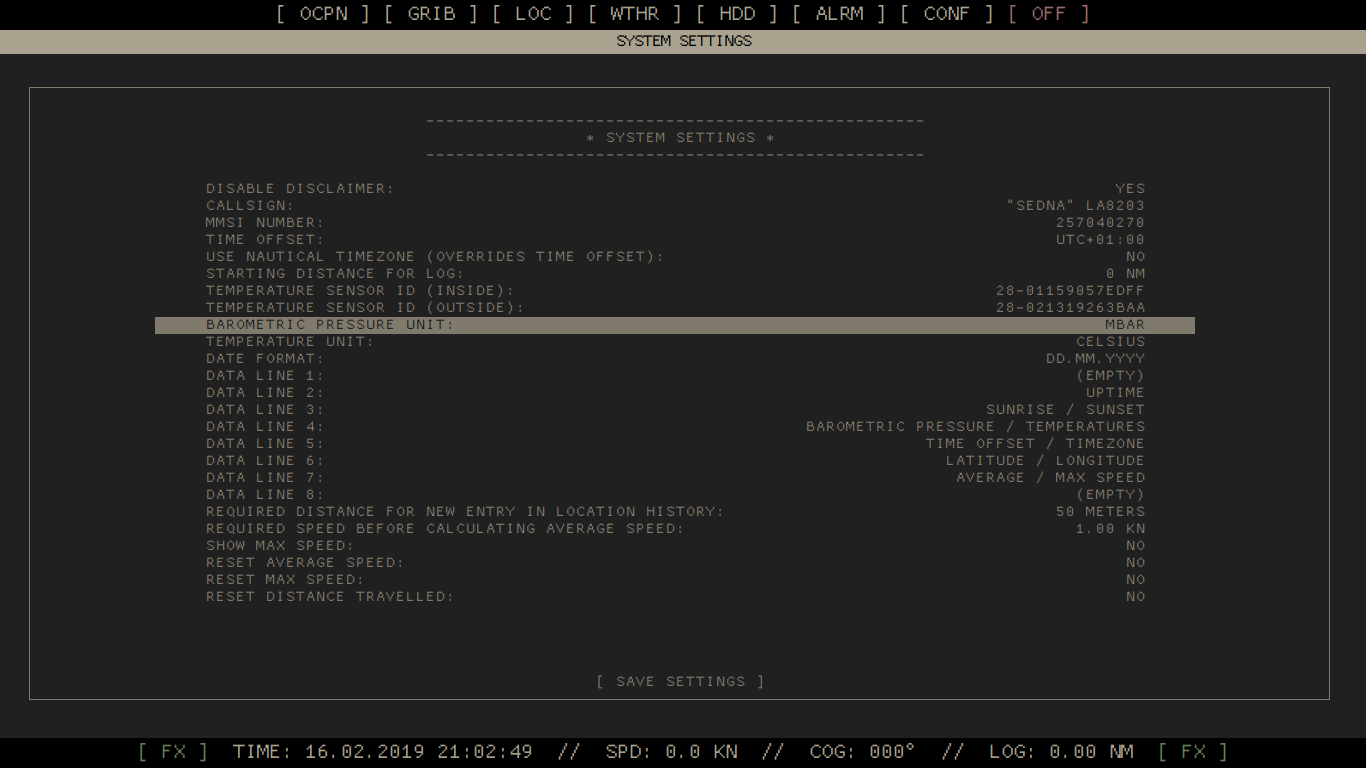
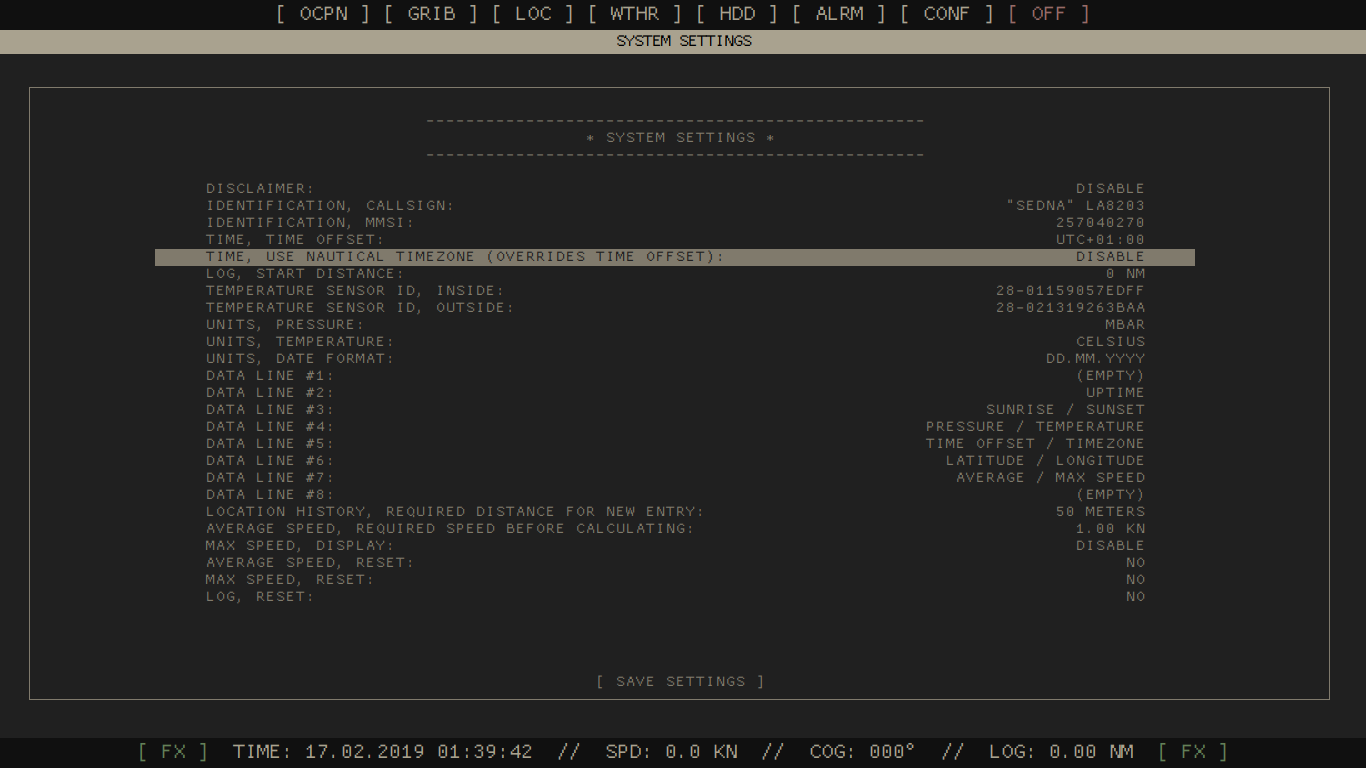
small changes

diff --git a/ocs_files/.OnboardComputerSystem/ocs-config-curses.py b/ocs_files/.OnboardComputerSystem/ocs-config-curses.py
@@ -123,19 +123,19 @@ show_baroupdateinterval=False
 show_baroconnected=False
 
 #Disclaimer
-item_options('Disable disclaimer','DisclaimerActivate')
-option('No','True');
-option('Yes','False');
+item_options('Disclaimer','DisclaimerActivate')
+option('Enable','True');
+option('Disable','False');
 item_count+=1
 
 #Callsign
-item_input_alphanumeric('Callsign','Callsign',callsign_length)
+item_input_alphanumeric('Identification, callsign','Callsign',callsign_length)
 
 #MMSI
-item_input_numbers('MMSI number','MMSI','9')
+item_input_numbers('Identification, MMSI','MMSI','9')
 
 #UTC offset
-item_options('Time offset','UtcOffset')
+item_options('Time, Time offset','UtcOffset')
 option_loop_value = -12
 while option_loop_value <= 12:
   option_loop_value_new=option_loop_value
@@ -150,13 +150,13 @@ while option_loop_value <= 12:
 item_count+=1
 
 #Use nautical timezone
-item_options('Use nautical timezone (overrides time offset)','UseNauticalTimezone')
-option('No','False');
-option('Yes','True');
+item_options('Time, use nautical timezone (overrides time offset)','UseNauticalTimezone')
+option('Disable','False');
+option('Enable','True');
 item_count+=1
 
 #DistanceStart
-item_options('Starting distance for log','DistanceStart')
+item_options('Log, start distance','DistanceStart')
 option_loop_value = 0
 while option_loop_value <= 100000:
   option(str(option_loop_value)+' NM',str(option_loop_value));
@@ -164,25 +164,25 @@ while option_loop_value <= 100000:
 item_count+=1
 
 #Inside temperature sensor ID
-item_input_alphanumeric('Temperature sensor ID (inside)','TempInside','15')
+item_input_alphanumeric('Temperature sensor ID, inside','TempInside','15')
 
 #Inside temperature sensor ID
-item_input_alphanumeric('Temperature sensor ID (outside)','TempOutside','15')
+item_input_alphanumeric('Temperature sensor ID, outside','TempOutside','15')
 
 #Barometric pressure usit: mmHg
-item_options('Pressure unit','BaroUnitMmhg')
+item_options('Units, pressure','BaroUnitMmhg')
 option('Mbar','False');
 option('mmHg','True');
 item_count+=1
 
 #Temperature unit
-item_options('Temperature unit','TempUnitFahrenheit')
+item_options('Units, temperature','TempUnitFahrenheit')
 option('Celsius','False');
 option('Fahrenheit','True');
 item_count+=1
 
 #Date format
-item_options('Date format','DateMonthDayYear')
+item_options('Units, date format','DateMonthDayYear')
 option('DD.MM.YYYY','False');
 option('MM.DD.YYYY','True');
 item_count+=1
@@ -190,7 +190,7 @@ item_count+=1
 #Datalines
 def dataline(number):
   global item_count
-  item_options('Data line '+number,'DataLine'+number)
+  item_options('Data line #'+number,'DataLine'+number)
   option('(Empty)','0');
   option('Uptime','1');
   option('Sunrise / Sunset','2');
@@ -211,7 +211,7 @@ dataline('7')
 dataline('8')
 
 #Required distance for new entry in location history
-item_options('Required distance for new entry in location history','LogEntryMinDistance')
+item_options('Location history, required distance for new entry','LogEntryMinDistance')
 option_loop_value = 10
 while option_loop_value <= 10000:
   option(str(option_loop_value)+' meters',str(option_loop_value));
@@ -219,7 +219,7 @@ while option_loop_value <= 10000:
 item_count+=1
 
 #SpdAvgReqMin
-item_options('Required speed before calculating average speed','SpdAvgReqMin')
+item_options('Average speed, required speed before calculating','SpdAvgReqMin')
 option_loop_value = float(0.25)
 while option_loop_value <= 5:
   option_loop_value_new='{0:.02f}'.format(option_loop_value)
@@ -228,32 +228,32 @@ while option_loop_value <= 5:
 item_count+=1
 
 #Show max speed
-item_options('Show max speed','ShowMaxSpd')
-option('No','False');
-option('Yes','True');
+item_options('Max speed, display','ShowMaxSpd')
+option('Disable','False');
+option('Enable','True');
 item_count+=1
 
 #Reset average speed
-item_options('Reset average speed','SpdAvgReset')
+item_options('Average speed, reset','SpdAvgReset')
 option('No','False');
 option('Yes','True');
 item_count+=1
 
 #Reset max speed
-item_options('Reset max speed','SpdMaxReset')
+item_options('Max speed, reset','SpdMaxReset')
 option('No','False');
 option('Yes','True');
 item_count+=1
 
 #Reset distance travelled
-item_options('Reset distance travelled','DistanceReset')
+item_options('Log, reset','DistanceReset')
 option('No','False');
 option('Yes','True');
 item_count+=1
 
 #Required distance travelled before updating distance travelled
 if show_distupdatedistance is True:
-  item_options('Required distance for updating distance travelled','DistUpdateDistance')
+  item_options('Log, required distance for updating','DistUpdateDistance')
   option_loop_value = 1
   while option_loop_value <= 100:
     option(str(option_loop_value)+' meters',str(option_loop_value));
@@ -262,7 +262,7 @@ if show_distupdatedistance is True:
 
 #Interval for updating distance travelled
 if show_distupdateinterval is True:
-  item_options('Interval for updating distance travelled','DistUpdateInterval')
+  item_options('Log, update interval','DistUpdateInterval')
   option_loop_value = 1
   while option_loop_value <= 60:
     option(str(option_loop_value)+' sec',str(option_loop_value));
@@ -271,7 +271,7 @@ if show_distupdateinterval is True:
 
 #Interval for updating temperature data
 if show_tempupdateinterval is True:
-  item_options('Interval for updating temperature data','TempUpdateInterval')
+  item_options('Temperature, update interval','TempUpdateInterval')
   option_loop_value = 1
   while option_loop_value <= 60:
     option(str(option_loop_value)+' min',str(option_loop_value));
@@ -280,7 +280,7 @@ if show_tempupdateinterval is True:
 
 #Interval for updating barometric pressure data
 if show_baroupdateinterval is True:
-  item_options('Interval for updating barometric pressure data','BaroUpdateInterval')
+  item_options('Pressure, update interval','BaroUpdateInterval')
   option_loop_value = 1
   while option_loop_value <= 60:
     option(str(option_loop_value)+' min',str(option_loop_value));
@@ -289,9 +289,9 @@ if show_baroupdateinterval is True:
 
 #Enable barometric pressure sensor
 if show_baroconnected is True:
-  item_options('Enable barometric pressure sensor','BaroConnected')
-  option('Yes','True');
-  option('No','False');
+  item_options('Pressure, barometric pressure sensor','BaroConnected')
+  option('Enable','True');
+  option('Disable','False');
   item_count+=1
 
 
